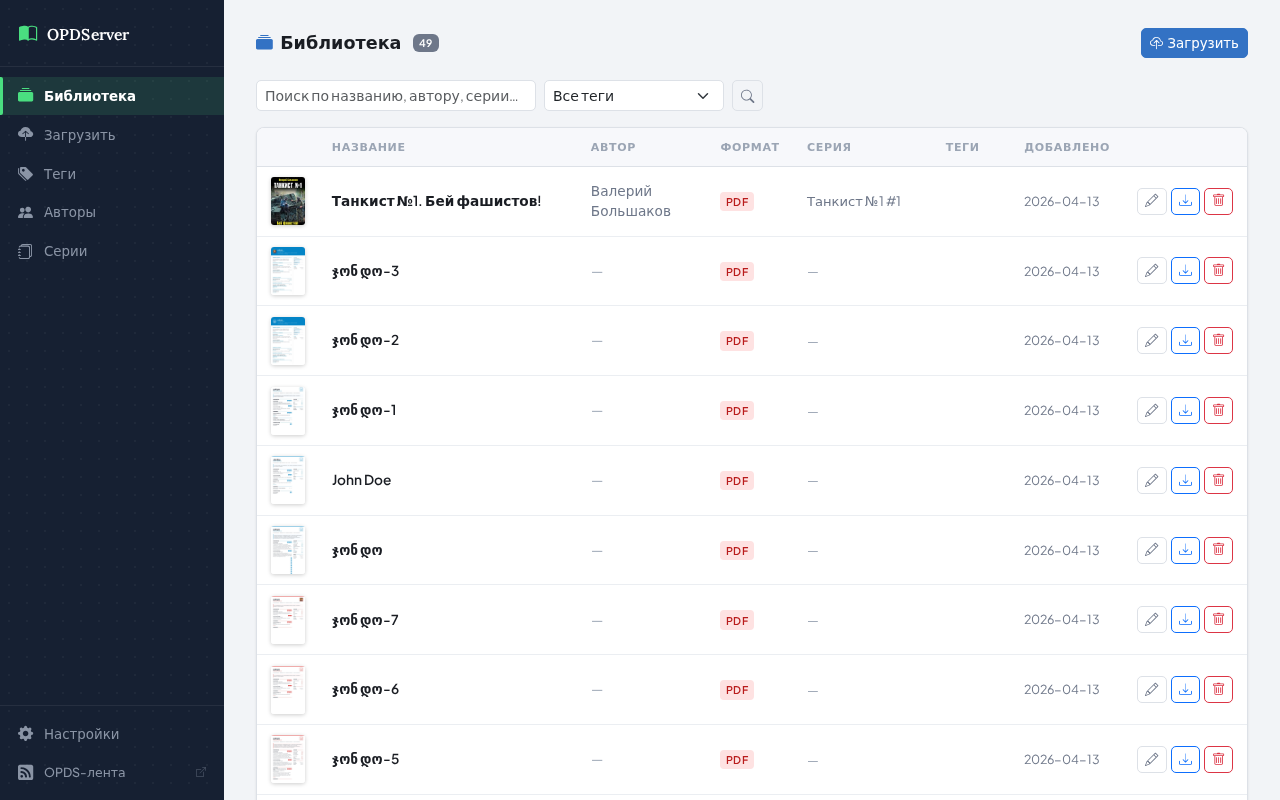
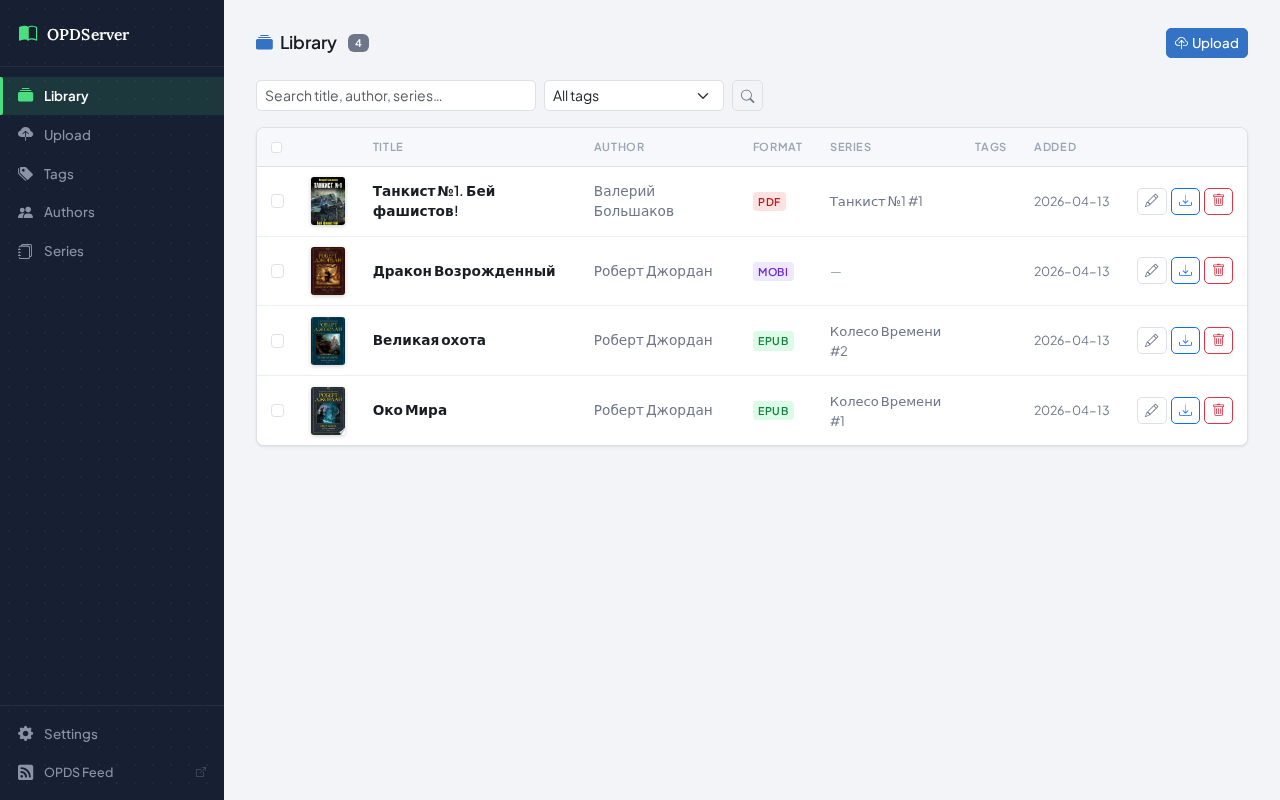
Add bulk select, bulk edit, and bulk delete to library
- Checkbox column in books table with select-all in header
- Floating action bar appears at bottom when books are selected
- Bulk delete: removes N books with a single confirmation
- Bulk edit modal: set author, series/index, language, add/remove tags
  across all selected books; blank fields are left unchanged
- POST /api/books/bulk-delete and POST /api/books/bulk-edit endpoints
  (registered before /{book_id} to avoid route shadowing)
- CSS: .bulk-bar floating panel with slide-in animation, row highlight
- Updated screenshot showing checkbox column

diff --git a/static/js/app.js b/static/js/app.js
@@ -1,9 +1,122 @@
-// Global book delete handler used from books.html / browse_books.html
+// ── Single book delete ────────────────────────────────────────────────────────
 async function deleteBook(bookId, title) {
   const tpl = window.UI?.confirm_delete_book || 'Delete "%s"? This cannot be undone.';
   if (!confirm(tpl.replace('%s', title))) return;
   const resp = await fetch(`/api/books/${bookId}`, { method: 'DELETE' });
   if (resp.ok) {
     document.querySelector(`tr[data-book-id="${bookId}"]`)?.remove();
+    updateBulkBar();
   }
+}
+
+// ── Bulk selection ────────────────────────────────────────────────────────────
+function selectedIds() {
+  return Array.from(document.querySelectorAll('.book-select:checked')).map(c => c.value);
+}
+
+function updateBulkBar() {
+  const ids = selectedIds();
+  const bar = document.getElementById('bulk-bar');
+  const countEl = document.getElementById('bulk-count');
+  if (!bar) return;
+  if (ids.length === 0) {
+    bar.style.display = 'none';
+  } else {
+    bar.style.display = 'flex';
+    countEl.textContent = `${ids.length} book${ids.length === 1 ? '' : 's'} selected`;
+  }
+  // Highlight selected rows
+  document.querySelectorAll('#books-table tbody tr').forEach(tr => {
+    const cb = tr.querySelector('.book-select');
+    tr.classList.toggle('selected-row', cb?.checked === true);
+  });
+}
+
+function clearSelection() {
+  document.querySelectorAll('.book-select').forEach(c => c.checked = false);
+  const selectAll = document.getElementById('select-all');
+  if (selectAll) selectAll.checked = false;
+  updateBulkBar();
+}
+
+// Wire up checkboxes once DOM is ready
+document.addEventListener('DOMContentLoaded', () => {
+  const selectAll = document.getElementById('select-all');
+  if (!selectAll) return;
+
+  selectAll.addEventListener('change', () => {
+    document.querySelectorAll('.book-select').forEach(c => c.checked = selectAll.checked);
+    updateBulkBar();
+  });
+
+  document.querySelectorAll('.book-select').forEach(cb => {
+    cb.addEventListener('change', () => {
+      const all = document.querySelectorAll('.book-select');
+      const checked = document.querySelectorAll('.book-select:checked');
+      selectAll.indeterminate = checked.length > 0 && checked.length < all.length;
+      selectAll.checked = checked.length === all.length;
+      updateBulkBar();
+    });
+  });
+});
+
+// ── Bulk delete ───────────────────────────────────────────────────────────────
+async function bulkDelete() {
+  const ids = selectedIds();
+  if (ids.length === 0) return;
+  if (!confirm(`Delete ${ids.length} book${ids.length === 1 ? '' : 's'}? This cannot be undone.`)) return;
+
+  const resp = await fetch('/api/books/bulk-delete', {
+    method: 'POST',
+    headers: { 'Content-Type': 'application/json' },
+    body: JSON.stringify({ ids }),
+  });
+  if (!resp.ok) { alert('Delete failed'); return; }
+
+  ids.forEach(id => document.querySelector(`tr[data-book-id="${id}"]`)?.remove());
+  clearSelection();
+}
+
+// ── Bulk edit ─────────────────────────────────────────────────────────────────
+function bulkEdit() {
+  const ids = selectedIds();
+  if (ids.length === 0) return;
+  // Clear fields
+  ['bulk-author','bulk-series','bulk-series-index','bulk-language','bulk-add-tags','bulk-remove-tags']
+    .forEach(id => { const el = document.getElementById(id); if (el) el.value = ''; });
+  document.getElementById('bulk-modal-count').textContent = ids.length;
+  new bootstrap.Modal(document.getElementById('bulkEditModal')).show();
+}
+
+async function bulkEditSubmit() {
+  const ids = selectedIds();
+  if (ids.length === 0) return;
+
+  const body = { ids };
+  const author = document.getElementById('bulk-author').value.trim();
+  const series = document.getElementById('bulk-series').value.trim();
+  const seriesIndex = document.getElementById('bulk-series-index').value.trim();
+  const language = document.getElementById('bulk-language').value.trim();
+  const addTagsRaw = document.getElementById('bulk-add-tags').value.trim();
+  const removeTagsRaw = document.getElementById('bulk-remove-tags').value.trim();
+
+  if (author)      body.author = author;
+  if (series !== '') body.series = series;           // allow empty to clear series
+  if (seriesIndex) body.series_index = seriesIndex;
+  if (language)    body.language = language;
+  if (addTagsRaw)    body.add_tags    = addTagsRaw.split(',').map(s => s.trim()).filter(Boolean);
+  if (removeTagsRaw) body.remove_tags = removeTagsRaw.split(',').map(s => s.trim()).filter(Boolean);
+
+  const modal = bootstrap.Modal.getInstance(document.getElementById('bulkEditModal'));
+  modal?.hide();
+
+  const resp = await fetch('/api/books/bulk-edit', {
+    method: 'POST',
+    headers: { 'Content-Type': 'application/json' },
+    body: JSON.stringify(body),
+  });
+  if (!resp.ok) { alert('Edit failed'); return; }
+
+  clearSelection();
+  location.reload();
 }

diff --git a/templates/books.html b/templates/books.html
@@ -29,9 +29,12 @@
 
 {% if books %}
 <div class="table-responsive">
-<table class="table table-hover">
+<table class="table table-hover" id="books-table">
   <thead>
     <tr>
+      <th style="width:32px">
+        <input type="checkbox" class="form-check-input" id="select-all" title="Select all">
+      </th>
       <th style="width:46px"></th>
       <th>{{ ui.col_title }}</th>
       <th>{{ ui.col_author }}</th>
@@ -47,6 +50,9 @@
   {% set book_tags = tag_map.get(book.id, []) %}
   {% set extra_tags = (book_tags | length) - 3 %}
   <tr data-book-id="{{ book.id }}">
+    <td>
+      <input type="checkbox" class="form-check-input book-select" value="{{ book.id }}">
+    </td>
     <td>
       {% if book.cover_path %}
       <img src="/covers/{{ book.id }}.jpg" class="book-thumb" alt="">
@@ -136,4 +142,66 @@
   <p>{{ ui.no_books_found }} <a href="/upload">{{ ui.upload_prompt }}</a></p>
 </div>
 {% endif %}
+
+<!-- Bulk action bar -->
+<div id="bulk-bar" class="bulk-bar" style="display:none">
+  <span id="bulk-count" class="bulk-count"></span>
+  <button class="btn btn-sm btn-outline-light ms-3" onclick="bulkEdit()">
+    <i class="bi bi-pencil-square me-1"></i>Edit fields
+  </button>
+  <button class="btn btn-sm btn-outline-danger ms-2" onclick="bulkDelete()">
+    <i class="bi bi-trash me-1"></i>Delete
+  </button>
+  <button class="btn btn-sm btn-link text-white ms-auto" onclick="clearSelection()">
+    <i class="bi bi-x-lg"></i>
+  </button>
+</div>
+
+<!-- Bulk edit modal -->
+<div class="modal fade" id="bulkEditModal" tabindex="-1">
+  <div class="modal-dialog">
+    <div class="modal-content">
+      <div class="modal-header">
+        <h5 class="modal-title"><i class="bi bi-pencil-square me-2"></i>Edit selected books</h5>
+        <button type="button" class="btn-close" data-bs-dismiss="modal"></button>
+      </div>
+      <div class="modal-body">
+        <p class="text-muted small mb-3">Leave a field blank to keep each book's existing value.</p>
+        <div class="mb-3">
+          <label class="form-label small fw-semibold">Author</label>
+          <input type="text" id="bulk-author" class="form-control form-control-sm" placeholder="e.g. Jane Austen">
+        </div>
+        <div class="row g-2 mb-3">
+          <div class="col-8">
+            <label class="form-label small fw-semibold">Series</label>
+            <input type="text" id="bulk-series" class="form-control form-control-sm" placeholder="e.g. Dune">
+          </div>
+          <div class="col-4">
+            <label class="form-label small fw-semibold">Index</label>
+            <input type="number" id="bulk-series-index" class="form-control form-control-sm" placeholder="e.g. 1" step="any" min="0">
+          </div>
+        </div>
+        <div class="mb-3">
+          <label class="form-label small fw-semibold">Language</label>
+          <input type="text" id="bulk-language" class="form-control form-control-sm" placeholder="e.g. en">
+        </div>
+        <div class="mb-3">
+          <label class="form-label small fw-semibold">Add tags <span class="text-muted fw-normal">(comma-separated)</span></label>
+          <input type="text" id="bulk-add-tags" class="form-control form-control-sm" placeholder="e.g. sci-fi, classic">
+        </div>
+        <div class="mb-0">
+          <label class="form-label small fw-semibold">Remove tags <span class="text-muted fw-normal">(comma-separated)</span></label>
+          <input type="text" id="bulk-remove-tags" class="form-control form-control-sm" placeholder="e.g. unread">
+        </div>
+      </div>
+      <div class="modal-footer">
+        <button type="button" class="btn btn-secondary btn-sm" data-bs-dismiss="modal">Cancel</button>
+        <button type="button" class="btn btn-primary btn-sm" onclick="bulkEditSubmit()">
+          <i class="bi bi-check-lg me-1"></i>Apply to <span id="bulk-modal-count"></span> books
+        </button>
+      </div>
+    </div>
+  </div>
+</div>
+
 {% endblock %}

diff --git a/static/css/style.css b/static/css/style.css
@@ -493,6 +493,38 @@ a.tag-pill:hover { background: var(--accent-soft-hover); color: var(--accent-hov
 .empty-state i { font-size: 3rem; opacity: .35; display: block; margin-bottom: .75rem; }
 .empty-state p { font-size: .9rem; margin: 0; }
 
+/* ─── Bulk action bar ───────────────────────────────── */
+.bulk-bar {
+  position: fixed;
+  bottom: 1.5rem;
+  left: 50%;
+  transform: translateX(-50%);
+  display: flex;
+  align-items: center;
+  background: #1e2129;
+  border: 1px solid rgba(255,255,255,.12);
+  border-radius: 10px;
+  padding: .5rem 1rem;
+  box-shadow: 0 8px 32px rgba(0,0,0,.45);
+  z-index: 1050;
+  min-width: 360px;
+  gap: .25rem;
+  animation: bulk-bar-in .15s ease;
+}
+@keyframes bulk-bar-in {
+  from { opacity: 0; transform: translateX(-50%) translateY(8px); }
+  to   { opacity: 1; transform: translateX(-50%) translateY(0); }
+}
+.bulk-count {
+  color: #fff;
+  font-size: .85rem;
+  font-weight: 600;
+  white-space: nowrap;
+}
+#books-table tbody tr.selected-row {
+  background: rgba(var(--accent-rgb, 52,211,153), .07);
+}
+
 /* ─── Settings — Language Picker ───────────────────── */
 .lang-grid {
   display: grid;

diff --git a/routers/api.py b/routers/api.py
@@ -9,12 +9,12 @@ import urllib.parse
 import uuid
 from datetime import datetime, timezone
 from pathlib import Path
-from typing import Optional
+from typing import List, Optional
 
 import aiosqlite
 import httpx
 import magic
-from fastapi import APIRouter, Depends, File, HTTPException, Query, UploadFile
+from fastapi import APIRouter, Body, Depends, File, HTTPException, Query, UploadFile
 from fastapi.responses import FileResponse, JSONResponse
 from PIL import Image
 
@@ -697,6 +697,86 @@ async def upload_books(
 
 
 # ── Book CRUD ─────────────────────────────────────────────────────────────────
+# NOTE: bulk routes must be registered BEFORE /books/{book_id} so FastAPI
+# doesn't match "bulk-delete" / "bulk-edit" as a book_id path parameter.
+
+@router.post("/books/bulk-delete")
+async def bulk_delete_books(
+    ids: List[str] = Body(..., embed=True),
+    db: aiosqlite.Connection = Depends(get_db),
+):
+    """Delete multiple books by ID. Skips IDs that don't exist."""
+    deleted = 0
+    for book_id in ids:
+        book = await database.get_book(db, book_id)
+        if not book:
+            continue
+        book_file = config.BASE_DIR / book.file_path
+        if book_file.exists():
+            book_file.unlink()
+        if book.cover_path:
+            cover_file = config.BASE_DIR / book.cover_path
+            if cover_file.exists():
+                cover_file.unlink()
+        await database.delete_book(db, book_id)
+        deleted += 1
+    return {"ok": True, "deleted": deleted}
+
+
+@router.post("/books/bulk-edit")
+async def bulk_edit_books(
+    ids: List[str] = Body(..., embed=True),
+    author: Optional[str] = Body(None),
+    series: Optional[str] = Body(None),
+    series_index: Optional[str] = Body(None),
+    language: Optional[str] = Body(None),
+    add_tags: Optional[List[str]] = Body(None),
+    remove_tags: Optional[List[str]] = Body(None),
+    db: aiosqlite.Connection = Depends(get_db),
+):
+    """Update shared fields and/or tags across multiple books."""
+    fields: dict = {"updated_at": _now()}
+    for k, v in [("author", author), ("series", series), ("language", language)]:
+        if v is not None:
+            fields[k] = v or None
+
+    if series_index is not None:
+        try:
+            fields["series_index"] = float(series_index) if series_index else None
+        except ValueError:
+            pass
+
+    # Pre-resolve tag names to IDs once
+    add_tag_ids: List[int] = []
+    if add_tags:
+        for name in add_tags:
+            name = name.strip()
+            if name:
+                tag = await database.create_tag(db, name)
+                add_tag_ids.append(tag.id)
+
+    remove_tag_ids: List[int] = []
+    if remove_tags:
+        all_tags = {t.name: t.id for t in await database.get_tags(db)}
+        for name in remove_tags:
+            name = name.strip()
+            if name and name in all_tags:
+                remove_tag_ids.append(all_tags[name])
+
+    updated = 0
+    for book_id in ids:
+        book = await database.get_book(db, book_id)
+        if not book:
+            continue
+        if len(fields) > 1:  # more than just updated_at
+            await database.update_book(db, book_id, fields)
+        for tag_id in add_tag_ids:
+            await database.add_book_tag(db, book_id, tag_id)
+        for tag_id in remove_tag_ids:
+            await database.remove_book_tag(db, book_id, tag_id)
+        updated += 1
+    return {"ok": True, "updated": updated}
+
 
 @router.post("/books/{book_id}")
 async def update_book(
